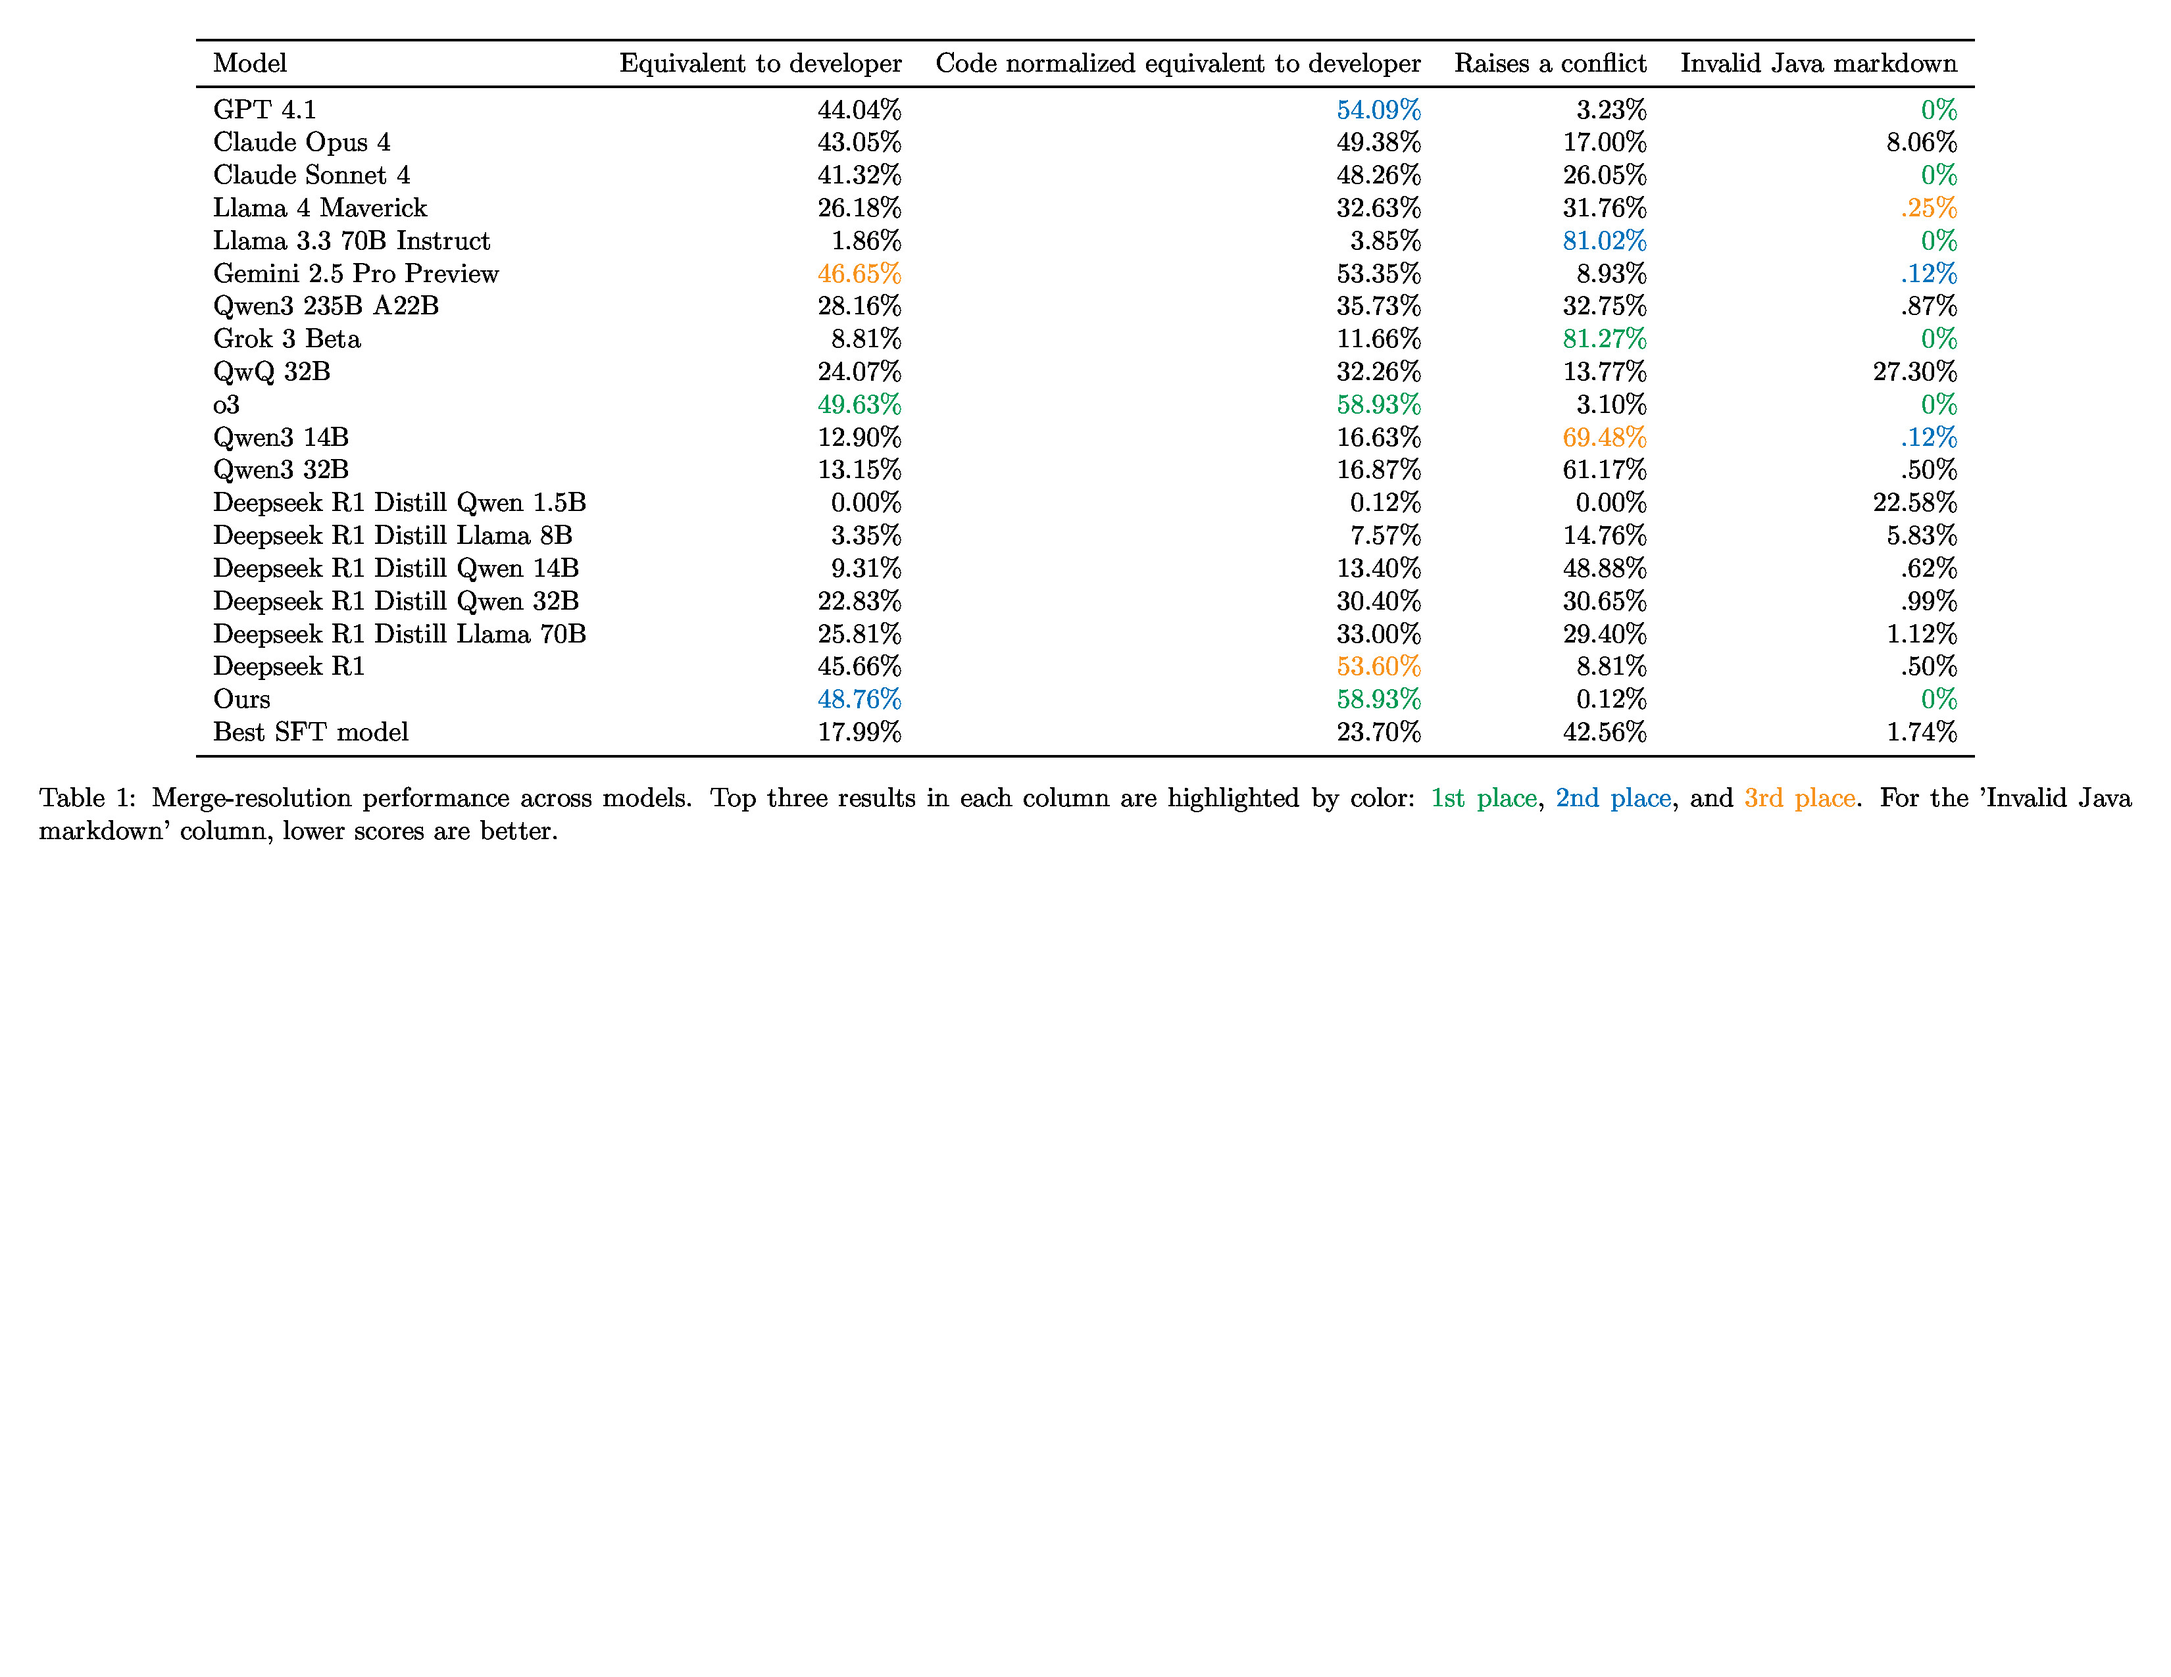
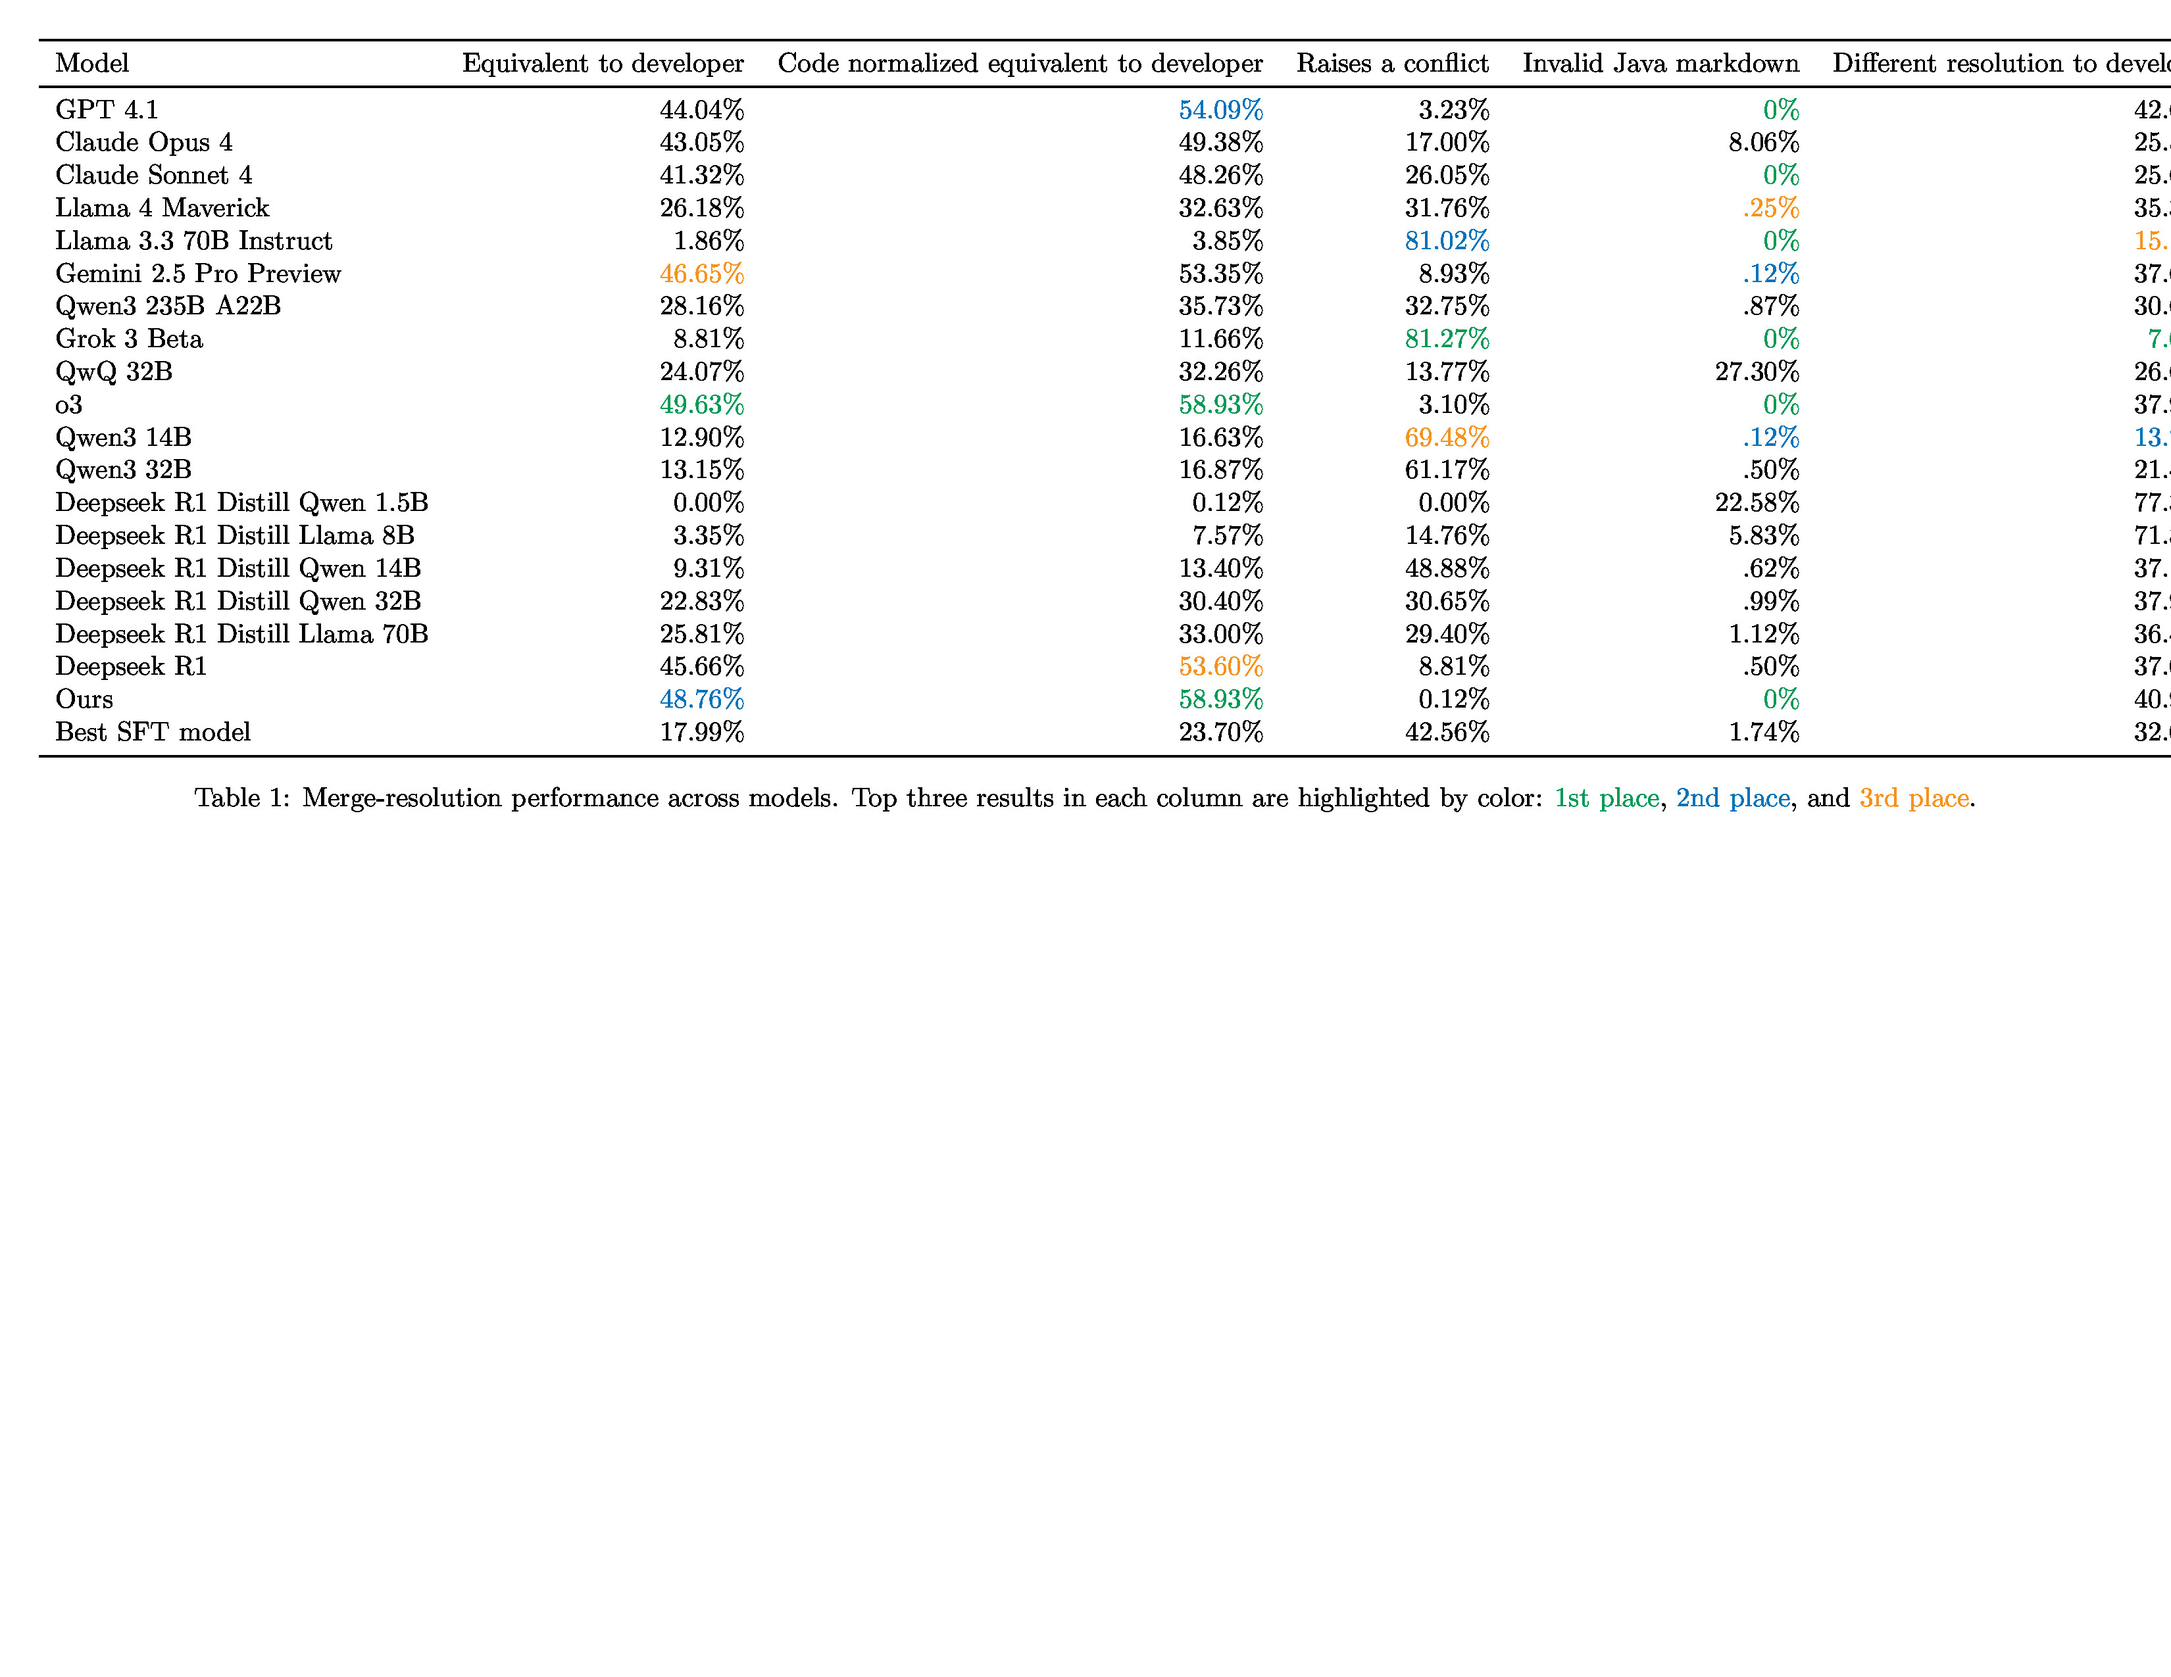
updated all the values

diff --git a/tables/results_table.tex b/tables/results_table.tex
@@ -1,30 +1,30 @@
 \begin{table*}[ht]
 \centering
-\begin{tabular}{lrrrr}
+\begin{tabular}{lrrrrr}
 \toprule
-Model & Equivalent to developer & Code normalized equivalent to developer & Raises a conflict & Invalid Java markdown \\
+Model & Equivalent to developer & Code normalized equivalent to developer & Raises a conflict & Invalid Java markdown & Different resolution to developer \\
 \midrule
-GPT 4.1 & 44.04\% & \textcolor{RoyalBlue}{54.09\%} & 3.23\% & \textcolor{ForestGreen}{0\%} \\
-Claude Opus 4 & 43.05\% & 49.38\% & 17.00\% & 8.06\% \\
-Claude Sonnet 4 & 41.32\% & 48.26\% & 26.05\% & \textcolor{ForestGreen}{0\%} \\
-Llama 4 Maverick & 26.18\% & 32.63\% & 31.76\% & \textcolor{BurntOrange}{.25\%} \\
-Llama 3.3 70B Instruct & 1.86\% & 3.85\% & \textcolor{RoyalBlue}{81.02\%} & \textcolor{ForestGreen}{0\%} \\
-Gemini 2.5 Pro Preview & \textcolor{BurntOrange}{46.65\%} & 53.35\% & 8.93\% & \textcolor{RoyalBlue}{.12\%} \\
-Qwen3 235B A22B & 28.16\% & 35.73\% & 32.75\% & .87\% \\
-Grok 3 Beta & 8.81\% & 11.66\% & \textcolor{ForestGreen}{81.27\%} & \textcolor{ForestGreen}{0\%} \\
-QwQ 32B & 24.07\% & 32.26\% & 13.77\% & 27.30\% \\
-o3 & \textcolor{ForestGreen}{49.63\%} & \textcolor{ForestGreen}{58.93\%} & 3.10\% & \textcolor{ForestGreen}{0\%} \\
-Qwen3 14B & 12.90\% & 16.63\% & \textcolor{BurntOrange}{69.48\%} & \textcolor{RoyalBlue}{.12\%} \\
-Qwen3 32B & 13.15\% & 16.87\% & 61.17\% & .50\% \\
-Deepseek R1 Distill Qwen 1.5B & 0.00\% & 0.12\% & 0.00\% & 22.58\% \\
-Deepseek R1 Distill Llama 8B & 3.35\% & 7.57\% & 14.76\% & 5.83\% \\
-Deepseek R1 Distill Qwen 14B & 9.31\% & 13.40\% & 48.88\% & .62\% \\
-Deepseek R1 Distill Qwen 32B & 22.83\% & 30.40\% & 30.65\% & .99\% \\
-Deepseek R1 Distill Llama 70B & 25.81\% & 33.00\% & 29.40\% & 1.12\% \\
-Deepseek R1 & 45.66\% & \textcolor{BurntOrange}{53.60\%} & 8.81\% & .50\% \\
-Ours & \textcolor{RoyalBlue}{48.76\%} & \textcolor{ForestGreen}{58.93\%} & 0.12\% & \textcolor{ForestGreen}{0\%} \\
-Best SFT model & 17.99\% & 23.70\% & 42.56\% & 1.74\% \\
+GPT 4.1 & 44.04\% & \textcolor{RoyalBlue}{54.09\%} & 3.23\% & \textcolor{ForestGreen}{0\%} & 42.68\% \\
+Claude Opus 4 & 43.05\% & 49.38\% & 17.00\% & 8.06\% & 25.56\% \\
+Claude Sonnet 4 & 41.32\% & 48.26\% & 26.05\% & \textcolor{ForestGreen}{0\%} & 25.69\% \\
+Llama 4 Maverick & 26.18\% & 32.63\% & 31.76\% & \textcolor{BurntOrange}{.25\%} & 35.36\% \\
+Llama 3.3 70B Instruct & 1.86\% & 3.85\% & \textcolor{RoyalBlue}{81.02\%} & \textcolor{ForestGreen}{0\%} & \textcolor{BurntOrange}{15.13\%} \\
+Gemini 2.5 Pro Preview & \textcolor{BurntOrange}{46.65\%} & 53.35\% & 8.93\% & \textcolor{RoyalBlue}{.12\%} & 37.60\% \\
+Qwen3 235B A22B & 28.16\% & 35.73\% & 32.75\% & .87\% & 30.65\% \\
+Grok 3 Beta & 8.81\% & 11.66\% & \textcolor{ForestGreen}{81.27\%} & \textcolor{ForestGreen}{0\%} & \textcolor{ForestGreen}{7.07\%} \\
+QwQ 32B & 24.07\% & 32.26\% & 13.77\% & 27.30\% & 26.67\% \\
+o3 & \textcolor{ForestGreen}{49.63\%} & \textcolor{ForestGreen}{58.93\%} & 3.10\% & \textcolor{ForestGreen}{0\%} & 37.97\% \\
+Qwen3 14B & 12.90\% & 16.63\% & \textcolor{BurntOrange}{69.48\%} & \textcolor{RoyalBlue}{.12\%} & \textcolor{RoyalBlue}{13.77\%} \\
+Qwen3 32B & 13.15\% & 16.87\% & 61.17\% & .50\% & 21.46\% \\
+Deepseek R1 Distill Qwen 1.5B & 0.00\% & 0.12\% & 0.00\% & 22.58\% & 77.30\% \\
+Deepseek R1 Distill Llama 8B & 3.35\% & 7.57\% & 14.76\% & 5.83\% & 71.84\% \\
+Deepseek R1 Distill Qwen 14B & 9.31\% & 13.40\% & 48.88\% & .62\% & 37.10\% \\
+Deepseek R1 Distill Qwen 32B & 22.83\% & 30.40\% & 30.65\% & .99\% & 37.96\% \\
+Deepseek R1 Distill Llama 70B & 25.81\% & 33.00\% & 29.40\% & 1.12\% & 36.48\% \\
+Deepseek R1 & 45.66\% & \textcolor{BurntOrange}{53.60\%} & 8.81\% & .50\% & 37.09\% \\
+Ours & \textcolor{RoyalBlue}{48.76\%} & \textcolor{ForestGreen}{58.93\%} & 0.12\% & \textcolor{ForestGreen}{0\%} & 40.95\% \\
+Best SFT model & 17.99\% & 23.70\% & 42.56\% & 1.74\% & 32.00\% \\
 \bottomrule
 \end{tabular}
-\caption{Merge-resolution performance across models. Top three results in each column are highlighted by color: \textcolor{ForestGreen}{1st place}, \textcolor{RoyalBlue}{2nd place}, and \textcolor{BurntOrange}{3rd place}. For the 'Invalid Java markdown' column, lower scores are better.}
+\caption{Merge-resolution performance across models. Top three results in each column are highlighted by color: \textcolor{ForestGreen}{1st place}, \textcolor{RoyalBlue}{2nd place}, and \textcolor{BurntOrange}{3rd place}.}
 \end{table*}

diff --git a/README.md b/README.md
@@ -8,28 +8,28 @@ A toolkit for constructing and analyzing merge conflict datasets, and training m
 
 Evaluation results 🚀:
 
-| Model | Correct merges | Semantic merges | Raising conflict | Valid Java markdown |
-| --- | ---: | ---: | ---: | ---: |
-| GPT 4.1 | 44.04% | 54.09% 🥈 | 3.23% | 100.00% 🥇 |
-| Claude Opus 4 | 43.05% | 49.38% | 17.00% | 91.94% |
-| Claude Sonnet 4 | 41.32% | 48.26% | 26.05% | 100.00% 🥇 |
-| Llama 4 Maverick | 26.18% | 32.63% | 31.76% | 99.75% 🥉 |
-| Llama 3.3 70B Instruct | 1.86% | 3.85% | 81.02% 🥈 | 100.00% 🥇 |
-| Gemini 2.5 Pro Preview | 46.65% 🥉 | 53.35% | 8.93% | 99.88% 🥈 |
-| Qwen3 235B A22B | 28.16% | 35.73% | 32.75% | 99.13% |
-| Grok 3 Beta | 8.81% | 11.66% | 81.27% 🥇 | 100.00% 🥇 |
-| QwQ 32B | 24.07% | 32.26% | 13.77% | 72.70% |
-| o3 | 49.63% 🥇 | 58.93% 🥇 | 3.10% | 100.00% 🥇 |
-| Qwen3 14B | 12.90% | 16.63% | 69.48% 🥉 | 99.88% 🥈 |
-| Qwen3 32B | 13.15% | 16.87% | 61.17% | 99.50% |
-| Deepseek R1 Distill Qwen 1.5B | 0.00% | 0.12% | 0.00% | 77.42% |
-| Deepseek R1 Distill Llama 8B | 3.35% | 7.57% | 14.76% | 94.17% |
-| Deepseek R1 Distill Qwen 14B | 9.31% | 13.40% | 48.88% | 99.38% |
-| Deepseek R1 Distill Qwen 32B | 22.83% | 30.40% | 30.65% | 99.01% |
-| Deepseek R1 Distill Llama 70B | 25.81% | 33.00% | 29.40% | 98.88% |
-| Deepseek R1 | 45.66% | 53.60% 🥉 | 8.81% | 99.50% |
-| Ours | 48.76% 🥈 | 58.93% 🥇 | 0.12% | 100.00% 🥇 |
-| Best SFT model | 17.99% | 23.70% | 42.56% | 98.26% |
+| Model | Equivalent to developer | Code normalized equivalent to developer | Raises a conflict | Invalid Java markdown | Different resolution to developer |
+| --- | ---: | ---: | ---: | ---: | ---: |
+| GPT 4.1 | 44.04% | 54.09% 🥈 | 3.23% | 0% 🥇 | 42.68% |
+| Claude Opus 4 | 43.05% | 49.38% | 17.00% | 8.06% | 25.56% |
+| Claude Sonnet 4 | 41.32% | 48.26% | 26.05% | 0% 🥇 | 25.69% |
+| Llama 4 Maverick | 26.18% | 32.63% | 31.76% | .25% 🥉 | 35.36% |
+| Llama 3.3 70B Instruct | 1.86% | 3.85% | 81.02% 🥈 | 0% 🥇 | 15.13% 🥉 |
+| Gemini 2.5 Pro Preview | 46.65% 🥉 | 53.35% | 8.93% | .12% 🥈 | 37.60% |
+| Qwen3 235B A22B | 28.16% | 35.73% | 32.75% | .87% | 30.65% |
+| Grok 3 Beta | 8.81% | 11.66% | 81.27% 🥇 | 0% 🥇 | 7.07% 🥇 |
+| QwQ 32B | 24.07% | 32.26% | 13.77% | 27.30% | 26.67% |
+| o3 | 49.63% 🥇 | 58.93% 🥇 | 3.10% | 0% 🥇 | 37.97% |
+| Qwen3 14B | 12.90% | 16.63% | 69.48% 🥉 | .12% 🥈 | 13.77% 🥈 |
+| Qwen3 32B | 13.15% | 16.87% | 61.17% | .50% | 21.46% |
+| Deepseek R1 Distill Qwen 1.5B | 0.00% | 0.12% | 0.00% | 22.58% | 77.30% |
+| Deepseek R1 Distill Llama 8B | 3.35% | 7.57% | 14.76% | 5.83% | 71.84% |
+| Deepseek R1 Distill Qwen 14B | 9.31% | 13.40% | 48.88% | .62% | 37.10% |
+| Deepseek R1 Distill Qwen 32B | 22.83% | 30.40% | 30.65% | .99% | 37.96% |
+| Deepseek R1 Distill Llama 70B | 25.81% | 33.00% | 29.40% | 1.12% | 36.48% |
+| Deepseek R1 | 45.66% | 53.60% 🥉 | 8.81% | .50% | 37.09% |
+| Ours | 48.76% 🥈 | 58.93% 🥇 | 0.12% | 0% 🥇 | 40.95% |
+| Best SFT model | 17.99% | 23.70% | 42.56% | 1.74% | 32.00% |
 
 
 ## Table of Contents

diff --git a/tables/results_table.md b/tables/results_table.md
@@ -1,22 +1,22 @@
-| Model | Equivalent to developer | Code normalized equivalent to developer | Raises a conflict | Invalid Java markdown |
-| --- | ---: | ---: | ---: | ---: |
-| GPT 4.1 | 44.04% | 54.09% 🥈 | 3.23% | 0% 🥇 |
-| Claude Opus 4 | 43.05% | 49.38% | 17.00% | 8.06% |
-| Claude Sonnet 4 | 41.32% | 48.26% | 26.05% | 0% 🥇 |
-| Llama 4 Maverick | 26.18% | 32.63% | 31.76% | .25% 🥉 |
-| Llama 3.3 70B Instruct | 1.86% | 3.85% | 81.02% 🥈 | 0% 🥇 |
-| Gemini 2.5 Pro Preview | 46.65% 🥉 | 53.35% | 8.93% | .12% 🥈 |
-| Qwen3 235B A22B | 28.16% | 35.73% | 32.75% | .87% |
-| Grok 3 Beta | 8.81% | 11.66% | 81.27% 🥇 | 0% 🥇 |
-| QwQ 32B | 24.07% | 32.26% | 13.77% | 27.30% |
-| o3 | 49.63% 🥇 | 58.93% 🥇 | 3.10% | 0% 🥇 |
-| Qwen3 14B | 12.90% | 16.63% | 69.48% 🥉 | .12% 🥈 |
-| Qwen3 32B | 13.15% | 16.87% | 61.17% | .50% |
-| Deepseek R1 Distill Qwen 1.5B | 0.00% | 0.12% | 0.00% | 22.58% |
-| Deepseek R1 Distill Llama 8B | 3.35% | 7.57% | 14.76% | 5.83% |
-| Deepseek R1 Distill Qwen 14B | 9.31% | 13.40% | 48.88% | .62% |
-| Deepseek R1 Distill Qwen 32B | 22.83% | 30.40% | 30.65% | .99% |
-| Deepseek R1 Distill Llama 70B | 25.81% | 33.00% | 29.40% | 1.12% |
-| Deepseek R1 | 45.66% | 53.60% 🥉 | 8.81% | .50% |
-| Ours | 48.76% 🥈 | 58.93% 🥇 | 0.12% | 0% 🥇 |
-| Best SFT model | 17.99% | 23.70% | 42.56% | 1.74% |
+| Model | Equivalent to developer | Code normalized equivalent to developer | Raises a conflict | Invalid Java markdown | Different resolution to developer |
+| --- | ---: | ---: | ---: | ---: | ---: |
+| GPT 4.1 | 44.04% | 54.09% 🥈 | 3.23% | 0% 🥇 | 42.68% |
+| Claude Opus 4 | 43.05% | 49.38% | 17.00% | 8.06% | 25.56% |
+| Claude Sonnet 4 | 41.32% | 48.26% | 26.05% | 0% 🥇 | 25.69% |
+| Llama 4 Maverick | 26.18% | 32.63% | 31.76% | .25% 🥉 | 35.36% |
+| Llama 3.3 70B Instruct | 1.86% | 3.85% | 81.02% 🥈 | 0% 🥇 | 15.13% 🥉 |
+| Gemini 2.5 Pro Preview | 46.65% 🥉 | 53.35% | 8.93% | .12% 🥈 | 37.60% |
+| Qwen3 235B A22B | 28.16% | 35.73% | 32.75% | .87% | 30.65% |
+| Grok 3 Beta | 8.81% | 11.66% | 81.27% 🥇 | 0% 🥇 | 7.07% 🥇 |
+| QwQ 32B | 24.07% | 32.26% | 13.77% | 27.30% | 26.67% |
+| o3 | 49.63% 🥇 | 58.93% 🥇 | 3.10% | 0% 🥇 | 37.97% |
+| Qwen3 14B | 12.90% | 16.63% | 69.48% 🥉 | .12% 🥈 | 13.77% 🥈 |
+| Qwen3 32B | 13.15% | 16.87% | 61.17% | .50% | 21.46% |
+| Deepseek R1 Distill Qwen 1.5B | 0.00% | 0.12% | 0.00% | 22.58% | 77.30% |
+| Deepseek R1 Distill Llama 8B | 3.35% | 7.57% | 14.76% | 5.83% | 71.84% |
+| Deepseek R1 Distill Qwen 14B | 9.31% | 13.40% | 48.88% | .62% | 37.10% |
+| Deepseek R1 Distill Qwen 32B | 22.83% | 30.40% | 30.65% | .99% | 37.96% |
+| Deepseek R1 Distill Llama 70B | 25.81% | 33.00% | 29.40% | 1.12% | 36.48% |
+| Deepseek R1 | 45.66% | 53.60% 🥉 | 8.81% | .50% | 37.09% |
+| Ours | 48.76% 🥈 | 58.93% 🥇 | 0.12% | 0% 🥇 | 40.95% |
+| Best SFT model | 17.99% | 23.70% | 42.56% | 1.74% | 32.00% |
